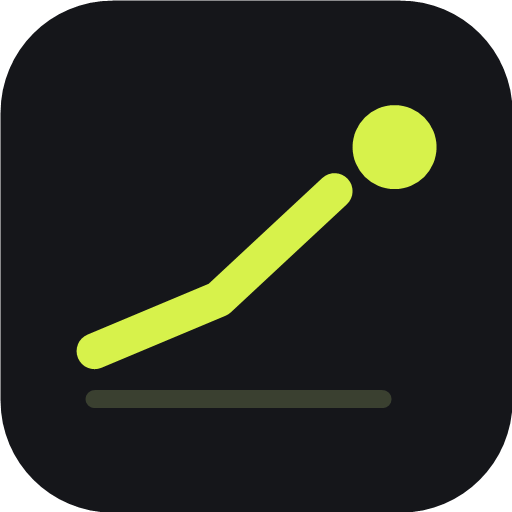
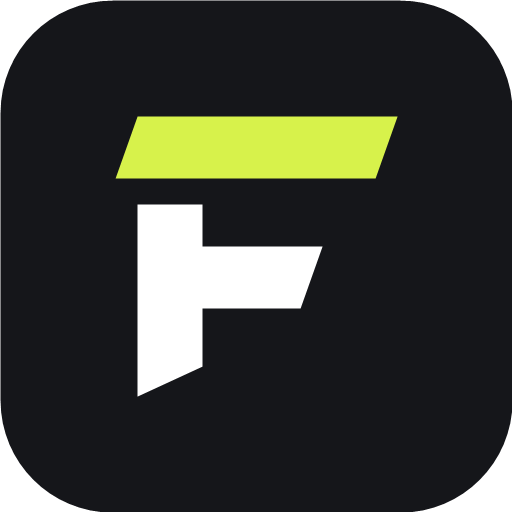
Un icono nuevo: una F de dos piezas, y la de arriba es la que cruzo
El icono viejo contaba la idea con una metafora (el piso, la subida y
el punto suelto). Este la cuenta con la letra, que es lo que pidio
Diego, y con la misma regla de siempre: el color es la persona.

Dos piezas:
- La barra de arriba va SUELTA y es la unica en verde. Es la que cruzo
  la frontera: llega mas a la derecha que el brazo del medio y sobresale
  del cuerpo para los dos lados.
- El cuerpo de la F va en blanco.

Los cortes son todos diagonales y para el mismo lado —la barra, el final
del brazo y la punta de abajo—: de ahi sale el aire angular, sin
encastres ni huecos finos, que a 32 pixeles se cierran y convierten el
dibujo en una mancha. El hueco entre las dos piezas son 26 unidades, que
es lo que lo mantiene legible a ese tamano.

Geometria propia. La referencia que trajo Diego era un logo de stock con
marca de agua: se tomo la estructura que le gustaba (arriba suelto,
abajo el resto) y no el dibujo.

`iconos.ps1` dibuja ahora dos poligonos en vez de la linea, la subida y
el circulo, y el centro del dibujo se recalculo (279, 260) porque la
barra lo corre a la derecha y arriba. Los cuatro PNG regenerados y
mirados uno por uno; el maskable sigue entrando en el circulo seguro
(diagonal 397 contra 410).

CACHE a v10: el service worker guarda `icono.svg`, asi que sin subir la
version el icono viejo se quedaba pegado.

Changed region(s): [[0.125, 0.1875, 0.875, 0.8125]]

diff --git a/app/sw.js b/app/sw.js
@@ -14,7 +14,7 @@
 //
 // Al cambiar algo acá, subir el número de CACHE.
 
-const CACHE = 'frontera-v9';
+const CACHE = 'frontera-v10';
 
 // Solo lo indispensable para que algo se vea sin conexión. El código no
 // entra: que lo traiga la red siempre.
